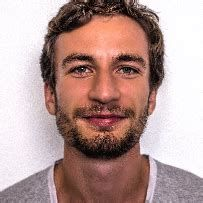
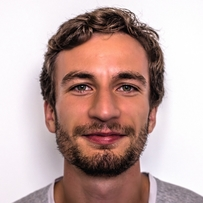
deploy: 59f8413be83b67a1a35cbc0357ce17d9acea1d1e

diff --git a/author/adriano-rutz/index.html b/author/adriano-rutz/index.html
@@ -287,8 +287,8 @@
   <meta property="og:site_name" content="LOTUS Project" />
   <meta property="og:url" content="https://lotus.nprod.net/author/adriano-rutz/" />
   <meta property="og:title" content="Adriano Rutz | LOTUS Project" />
-  <meta property="og:description" content="My research group description." /><meta property="og:image" content="https://lotus.nprod.net/author/adriano-rutz/avatar_hu5304f23e788825663b90d691b835fc84_10033_270x270_fill_q75_lanczos_center.jpeg" />
-    <meta property="twitter:image" content="https://lotus.nprod.net/author/adriano-rutz/avatar_hu5304f23e788825663b90d691b835fc84_10033_270x270_fill_q75_lanczos_center.jpeg" /><meta property="og:locale" content="en-us" />
+  <meta property="og:description" content="My research group description." /><meta property="og:image" content="https://lotus.nprod.net/author/adriano-rutz/avatar_hu4f6c31d498804f95ba20ff5c6b5e07d9_29414_270x270_fill_q75_lanczos_center.jpeg" />
+    <meta property="twitter:image" content="https://lotus.nprod.net/author/adriano-rutz/avatar_hu4f6c31d498804f95ba20ff5c6b5e07d9_29414_270x270_fill_q75_lanczos_center.jpeg" /><meta property="og:locale" content="en-us" />
   
     
   
@@ -640,7 +640,7 @@
 
       
       
-      <img class="avatar avatar-circle" src="/author/adriano-rutz/avatar_hu5304f23e788825663b90d691b835fc84_10033_270x270_fill_q75_lanczos_center.jpeg" alt="Adriano Rutz">
+      <img class="avatar avatar-circle" src="/author/adriano-rutz/avatar_hu4f6c31d498804f95ba20ff5c6b5e07d9_29414_270x270_fill_q75_lanczos_center.jpeg" alt="Adriano Rutz">
       
 
       <div class="portrait-title">

diff --git a/people/index.html b/people/index.html
@@ -1215,7 +1215,7 @@
     
     
       
-      <a href="/author/adriano-rutz/"><img class="avatar avatar-circle" src="/author/adriano-rutz/avatar_hu5304f23e788825663b90d691b835fc84_10033_270x270_fill_q75_lanczos_center.jpeg" alt="Avatar"></a>
+      <a href="/author/adriano-rutz/"><img class="avatar avatar-circle" src="/author/adriano-rutz/avatar_hu4f6c31d498804f95ba20ff5c6b5e07d9_29414_270x270_fill_q75_lanczos_center.jpeg" alt="Avatar"></a>
     
 
     <div class="portrait-title">
